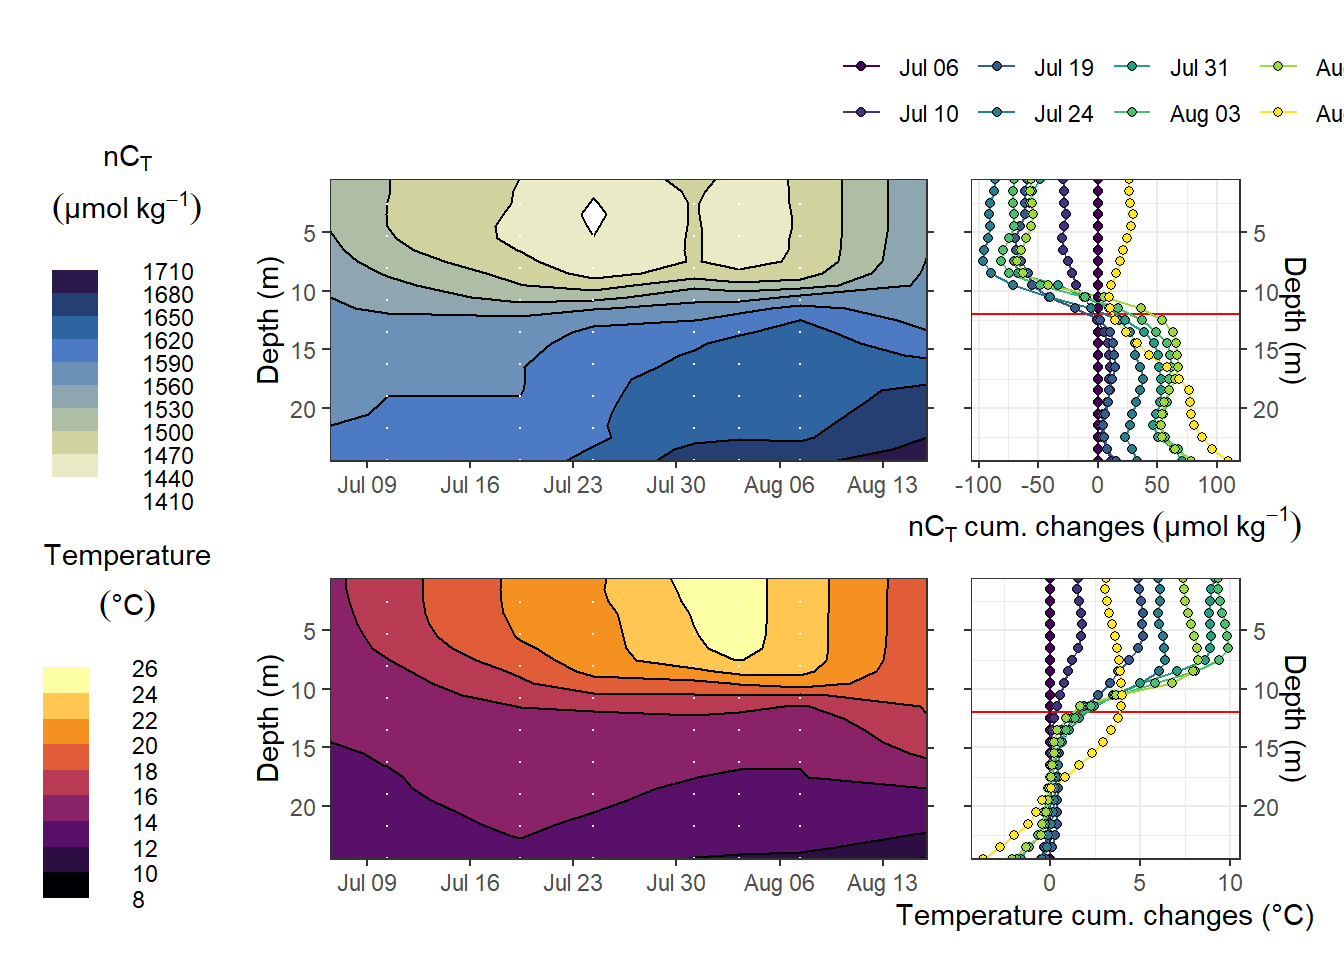
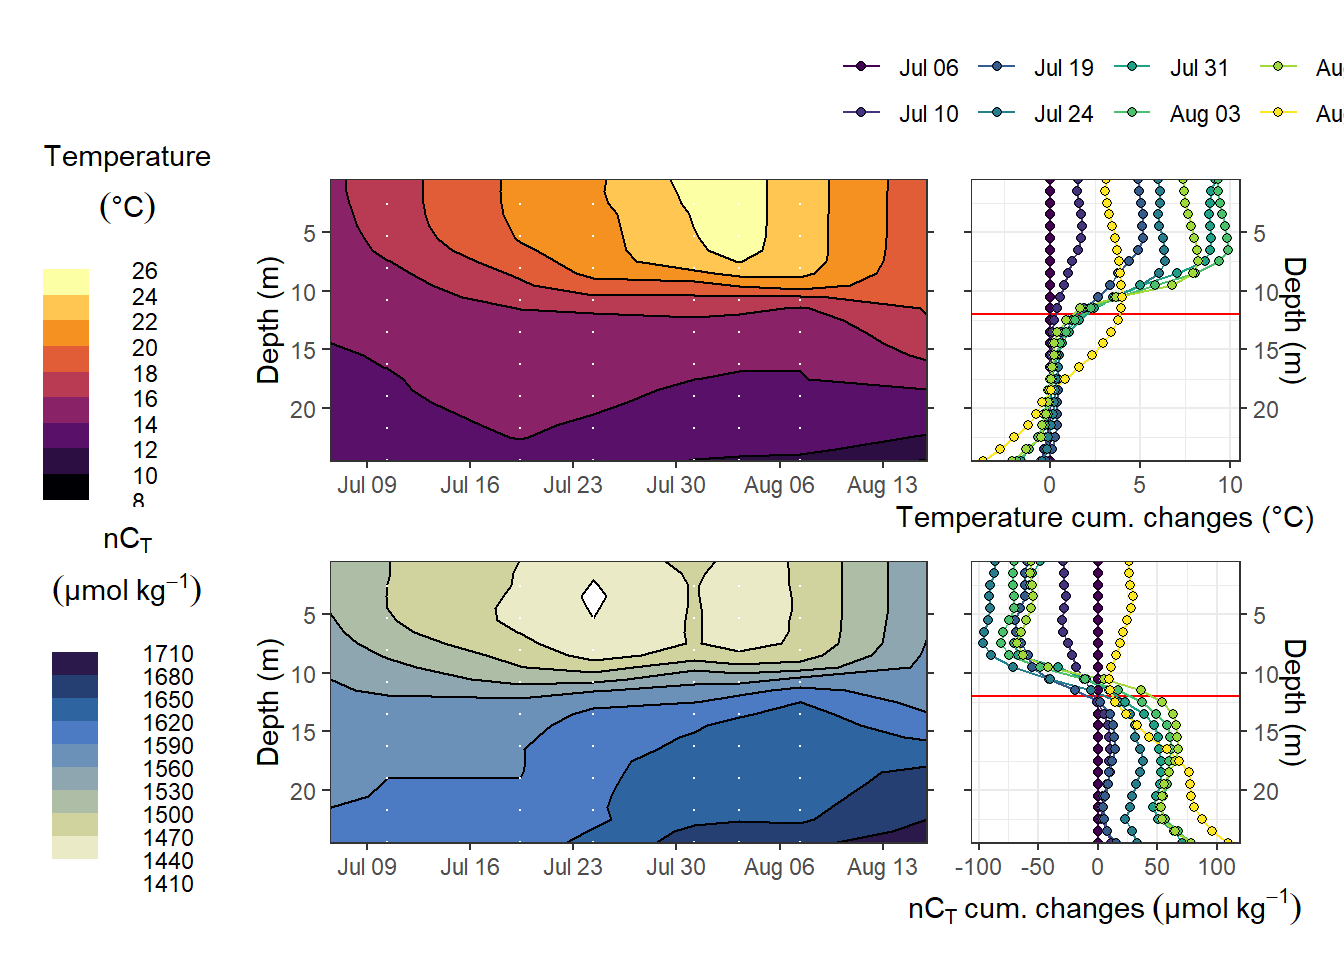
Build site.

diff --git a/docs/CT_dynamics.html b/docs/CT_dynamics.html
@@ -433,7 +433,7 @@ div.tocify {
 
 <h1 class="title toc-ignore">CT dynamics</h1>
 <h4 class="author">Jens Daniel Müller</h4>
-<h4 class="date">29 June, 2020</h4>
+<h4 class="date">01 July, 2020</h4>
 
 </div>
 
@@ -458,7 +458,7 @@ div.tocify {
 <div class="tab-content">
 <div id="summary" class="tab-pane fade in active">
 <p>
-<strong>Last updated:</strong> 2020-06-29
+<strong>Last updated:</strong> 2020-07-01
 </p>
 <p>
 <strong>Checks:</strong> <span class="glyphicon glyphicon-ok text-success" aria-hidden="true"></span> 7 <span class="glyphicon glyphicon-exclamation-sign text-danger" aria-hidden="true"></span> 0
@@ -549,16 +549,16 @@ This reproducible <a href="http://rmarkdown.rstudio.com">R Markdown</a> analysis
 <div class="panel panel-default">
 <div class="panel-heading">
 <p class="panel-title">
-<a data-toggle="collapse" data-parent="#workflowr-checks" href="#strongRepositoryversionstrongahrefhttpsgithubcomjensdanielmuellerBloomSailtree1461cb6d5fb3802d6d60858e4d204f6bc685b04ctargetblank1461cb6a"> <span class="glyphicon glyphicon-ok text-success" aria-hidden="true"></span> <strong>Repository version:</strong> <a href="https://github.com/jens-daniel-mueller/BloomSail/tree/1461cb6d5fb3802d6d60858e4d204f6bc685b04c" target="_blank">1461cb6</a> </a>
+<a data-toggle="collapse" data-parent="#workflowr-checks" href="#strongRepositoryversionstrongahrefhttpsgithubcomjensdanielmuellerBloomSailtreef38a1ab2ae1f188f0d868b5668ad2fdec299d447targetblankf38a1aba"> <span class="glyphicon glyphicon-ok text-success" aria-hidden="true"></span> <strong>Repository version:</strong> <a href="https://github.com/jens-daniel-mueller/BloomSail/tree/f38a1ab2ae1f188f0d868b5668ad2fdec299d447" target="_blank">f38a1ab</a> </a>
 </p>
 </div>
[2 lines of base64/hex data omitted]
 <div class="panel-body">
 <p>
 Great! You are using Git for version control. Tracking code development and connecting the code version to the results is critical for reproducibility.
 </p>
 <p>
-The results in this page were generated with repository version <a href="https://github.com/jens-daniel-mueller/BloomSail/tree/1461cb6d5fb3802d6d60858e4d204f6bc685b04c" target="_blank">1461cb6</a>. See the <em>Past versions</em> tab to see a history of the changes made to the R Markdown and HTML files.
+The results in this page were generated with repository version <a href="https://github.com/jens-daniel-mueller/BloomSail/tree/f38a1ab2ae1f188f0d868b5668ad2fdec299d447" target="_blank">f38a1ab</a>. See the <em>Past versions</em> tab to see a history of the changes made to the R Markdown and HTML files.
 </p>
 <p>
 Note that you need to be careful to ensure that all relevant files for the analysis have been committed to Git prior to generating the results (you can use <code>wflow_publish</code> or <code>wflow_git_commit</code>). workflowr only checks the R Markdown file, but you know if there are other scripts or data files that it depends on. Below is the status of the Git repository when the results were generated:
@@ -583,6 +583,9 @@ Untracked files:
     Untracked:  code/Vertical entrainment flux III.pdf
     Untracked:  output/Plots/Figures_publication/Appendix/Phytoplankton_mean_total_biomass.png
     Untracked:  output/Plots/Figures_publication/Appendix/TPD_CPD_cumulative.png
+    Untracked:  output/Plots/Figures_publication/Appendix/pCO2_RT_corrected_profile_example.png
+    Untracked:  output/Plots/Figures_publication/Appendix/pCO2_RT_corrected_profile_mean_abs_offset.png
+    Untracked:  output/Plots/Figures_publication/Appendix/tau_fit_example.png
     Untracked:  output/Plots/Figures_publication/Appendix/tb_profiles.png
     Untracked:  output/Plots/Figures_publication/Article/Hov_abs_profiles_cum.png
     Untracked:  output/Plots/Figures_publication/Article/atm_water_timeseries.png
@@ -629,6 +632,40 @@ Message
 </tr>
 </thead>
 <tbody>
+<tr>
+<td>
+Rmd
+</td>
+<td>
+<a href="https://github.com/jens-daniel-mueller/BloomSail/blob/f38a1ab2ae1f188f0d868b5668ad2fdec299d447/analysis/CT_dynamics.Rmd" target="_blank">f38a1ab</a>
+</td>
+<td>
+jens-daniel-mueller
+</td>
+<td>
+2020-07-01
+</td>
+<td>
+rearranged Hovmoeller plots
+</td>
+</tr>
+<tr>
+<td>
+html
+</td>
+<td>
+<a href="https://rawcdn.githack.com/jens-daniel-mueller/BloomSail/c919fb743c6cae42f04422da1cdbb7655aa112fc/docs/CT_dynamics.html" target="_blank">c919fb7</a>
+</td>
+<td>
+jens-daniel-mueller
+</td>
+<td>
+2020-06-29
+</td>
+<td>
+Build site.
+</td>
+</tr>
 <tr>
 <td>
 Rmd
